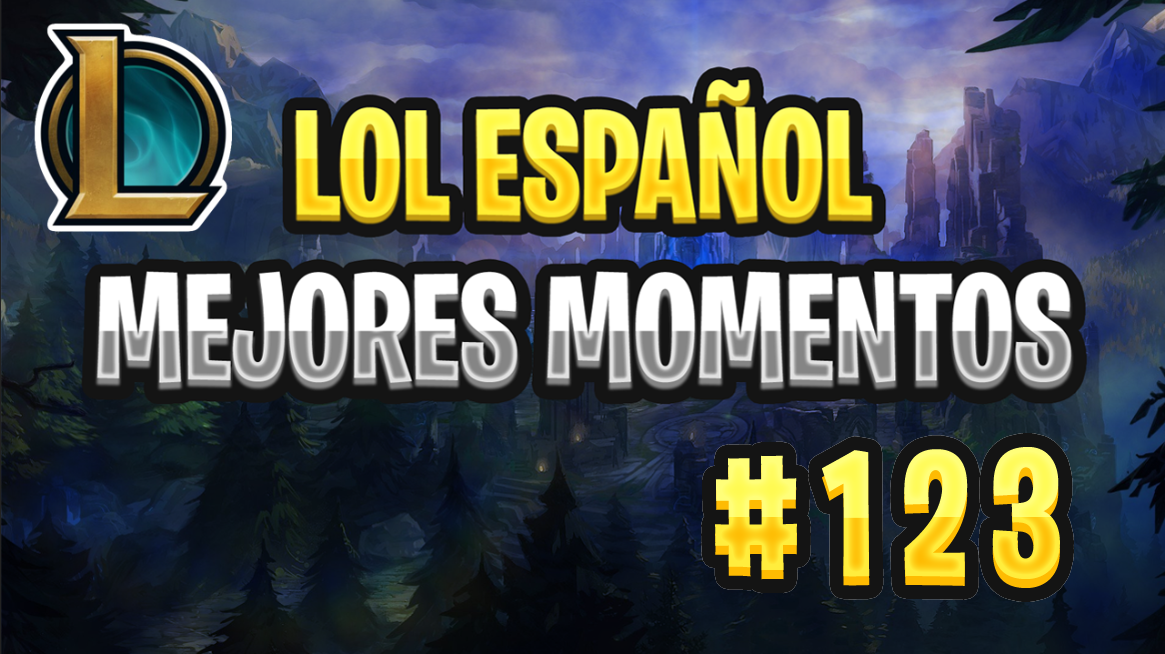
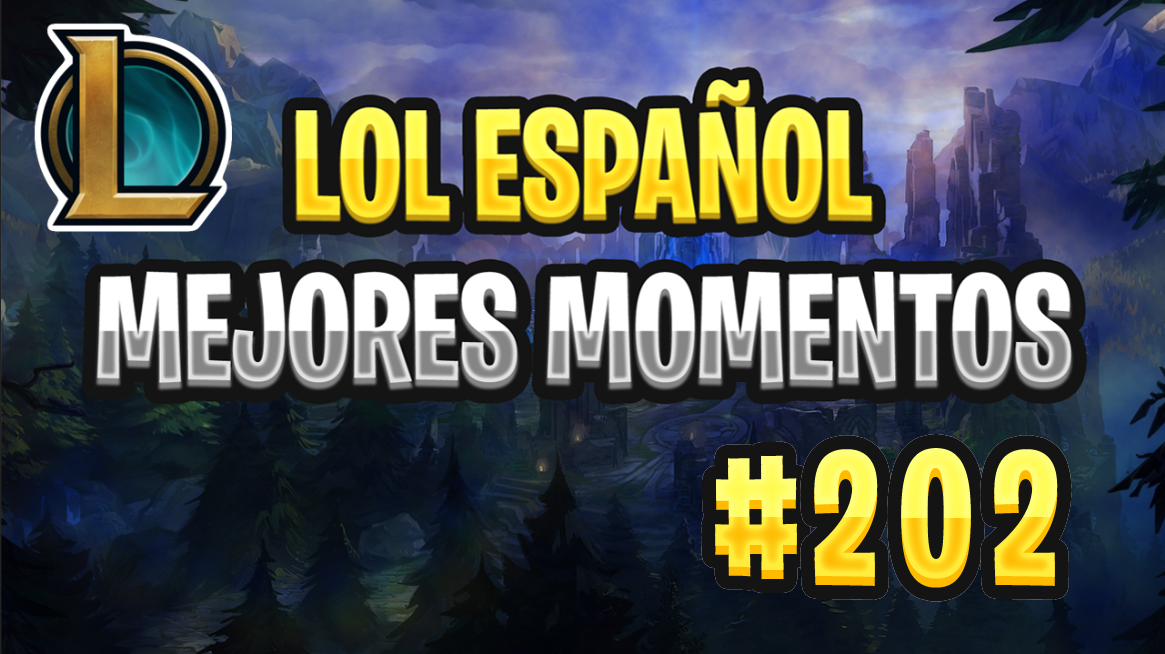
fix thumbnail generator v2

Changed region(s): [[0.6798, 0.6422, 0.927, 0.9174]]

diff --git a/test.py b/test.py
@@ -1,5 +1,5 @@
 from youtube_api import upload_video as upload_video_to_youtube
-import settings
+import game_config
 import sqlite3
 from repository import get_game_current_number, update_game_current_number
 from youtube_service import upload_video
@@ -27,7 +27,7 @@ from thumbnail_generator_v2 import generate_thumbnail
 # update_game_current_number('ark_es', 4)
 # current_number = get_game_current_number('fortnite_en')
 # print(current_number)
-game = settings.GAMES['lol_es']
+game = game_config.GAMES['lol_es']
 # upload_video(game, 'elmillor lo da todo', ['elmillor', 'coscu'])
 # upload_video_api(game, 'test title', file_path, 'test description', 20, ['test tag'])
-generate_thumbnail(game, 123)
+generate_thumbnail(game, 202)

diff --git a/thumbnail_generator_v2.py b/thumbnail_generator_v2.py
@@ -5,7 +5,7 @@ def generate_thumbnail(game, number):
     x = game['thumbnail_number_x']
     y = game['thumbnail_number_y']
     
-    img = Image.open(game['thumbnail_file'])
+    img = Image.open(settings.RESULT_DIRECTORY + game['thumbnail_file'])
     numbers_directory = settings.UTILS_DIRECTORY
     number = str(number)
 
